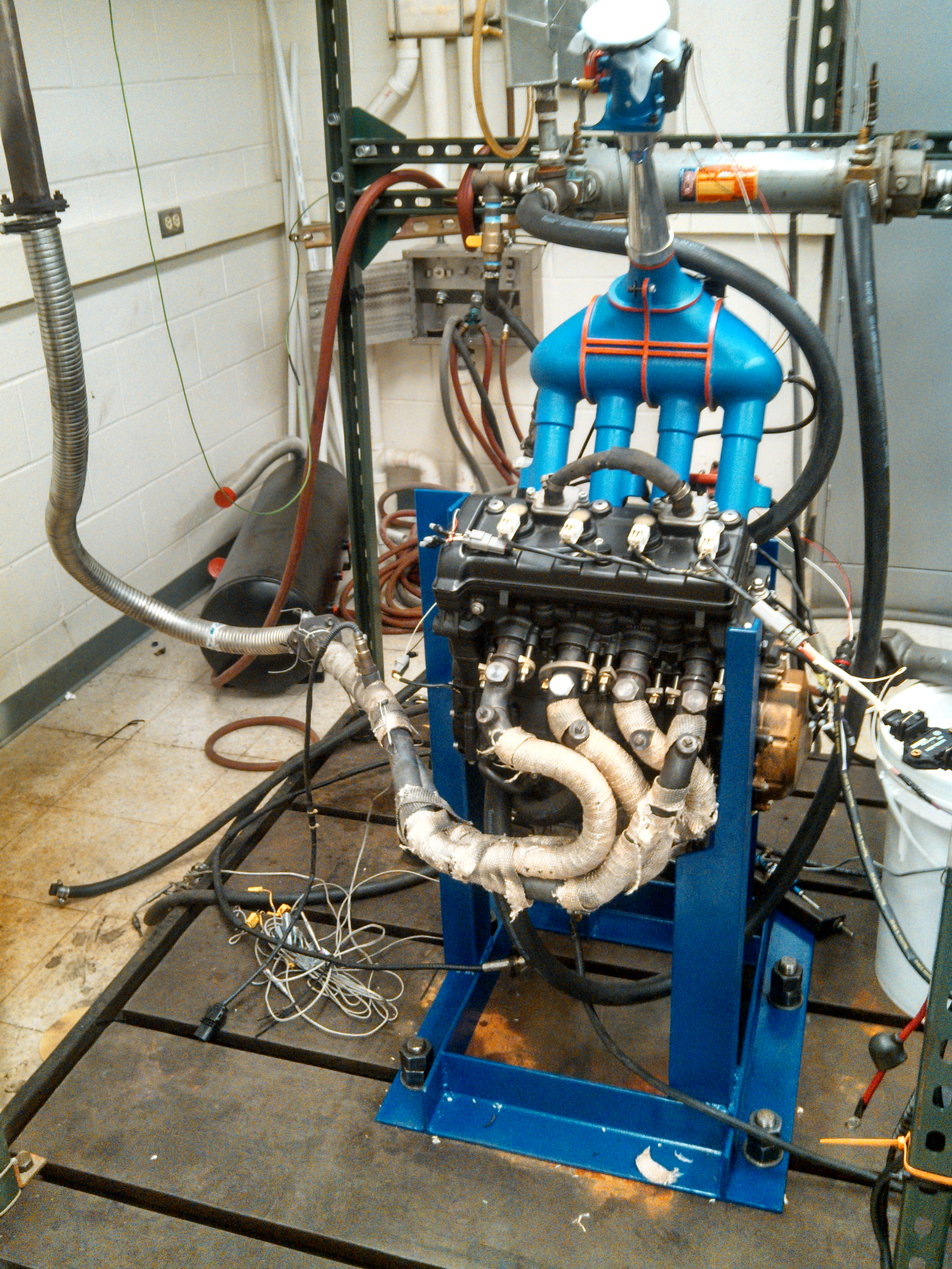
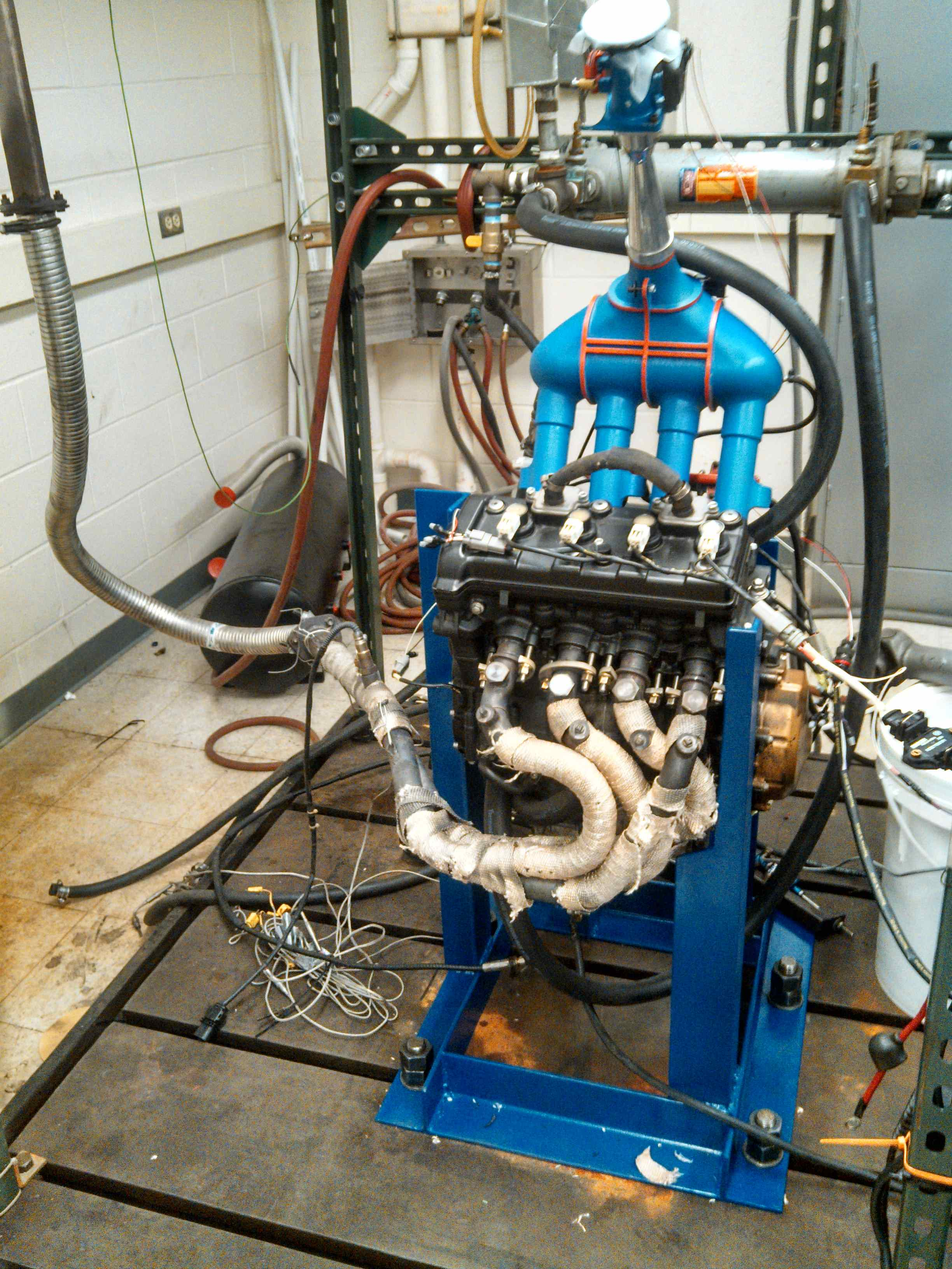
reduced image filesizes to speed load times

Changed region(s): [[0.0, 0.8438, 1.0, 1.0], [0.2484, 0.7188, 0.4346, 0.8125], [0.9935, 0.7812, 1.0, 0.8438]]

diff --git a/projects/class.html b/projects/class.html
@@ -14,7 +14,7 @@ title: Class Projects
 		<div class="grid">
 			<div class="grid-item">
 				<div class="hovereffect"> 
-					<img src="/img/me370.png" class="img-responsive img-rounded" alt="Water Pump">
+					<img src="/img/me370.jpg" class="img-responsive img-rounded" alt="Water Pump">
 					<div class="overlay">
 						<h3>Water Pump</h3>
 						<p>This project's objective was to develop a mechanism converting rotary motion into linear motion, allowing an AC motor rotating at 120 RPM to power a small water pump. The device was able to pump water at 2.2 Gallons per Minute, making it one of the few entries to exceed the project requirement and winning 3rd place out of over 20 teams in Mechanical Design I (ME 370).</p>
